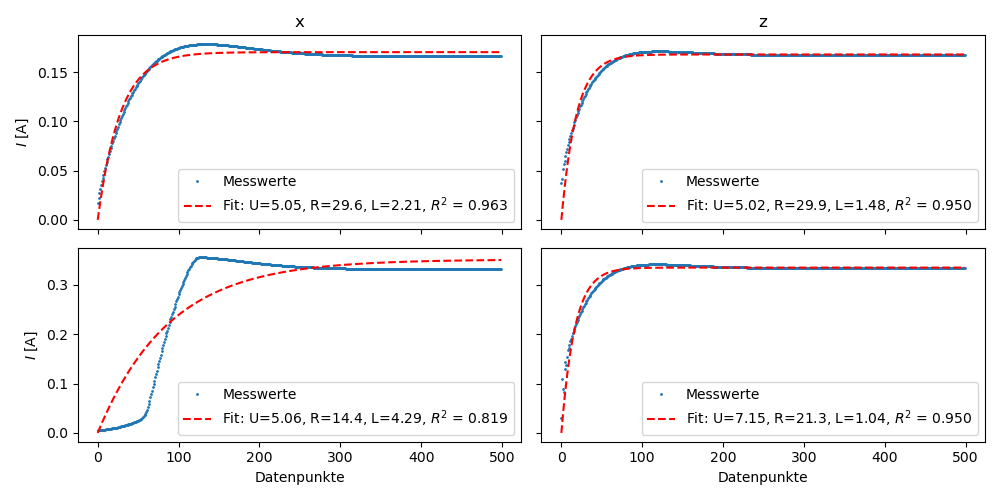
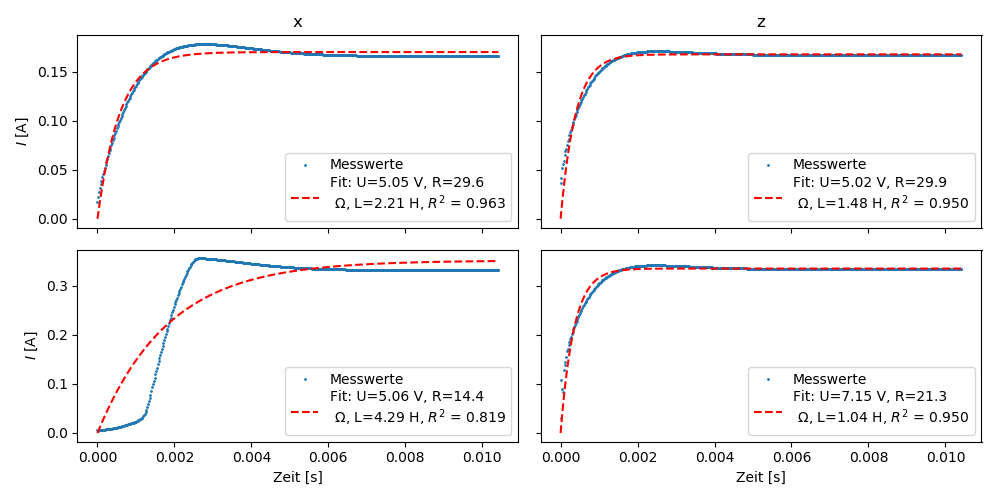
files

diff --git a/ba.tex b/ba.tex
@@ -1,4 +1,4 @@
-% Created 2019-10-16 Mi 23:53
+% Created 2019-10-17 Do 16:38
 % Intended LaTeX compiler: pdflatex
 \documentclass[page,pdftex,12pt,a4paper,twoside,openright]{scrbook}
 \usepackage[utf8]{inputenc}
@@ -54,7 +54,7 @@
 
 
 \chapter{Einleitung \label{sec-einleitung}}
-\label{sec:orgb1974c0}
+\label{sec:org326283f}
 Durch den allgemeine Anstieg der Weltbevölkerung, den demographischen Wandel und die steigende Lebenserwartung wird eine Zunahme von Krankheiten wie Krebs oder Diabetes erwartet \cite{bray_global_2018,zhou_worldwide_2016}. Um dieser Entwicklung entgegen zu wirken, werden kostengünstige, patientennahe Diagnoseprozesse für die Individualmedizin entwickelt. So können bereits früh Krankheitsanzeichen und -ursachen entdeckt und bekämpft werden.
 
 Neuartigen Analysesystemen wie \emph{Lab-on-a-Chip} (LOC) werden deswegen großes Potential für Biomedizin und Medizindiagnostik in der Zukunft zugesprochen. Durch Miniaturisierung der Chips ergeben sich viele Vorteile \cite{stone_microfluidics_2001,knight_honey_2002}.
@@ -62,11 +62,11 @@ Möglich sind unter anderem Biochips zur Analyse und Detektion von bestimmten Mo
 
 Das in der Arbeitsgruppe \textsc{Ehresmann} etablierte Transportkonzept von superparamagnetischen Partikeln (SPP) oberhalb magnetisch strukturierter \emph{Exchange-Bias} (EB) Dünnschichtsysteme kann hierbei ein wichtiger Bestandteil zukünftiger Analysesysteme werden. Die Grundidee ist es durch ein extern angelegtes Magnetfeld die magnetische Feldlandschaft (MFL) eines künstlichen Domänenmusters so zu transformieren, dass ein gerichteter Transport der SPP zwischen \emph{head-to-head} und \emph{tail-to-tail}-Domänenwänden möglich wird; dabei können diese SPP in verschiedenen Prozessschritten eines LOCs verwendet werden. Einerseits können Analyte, die an Partikel gebunden sind, in bestimmte Analysebereiche transportiert werden \cite{ehresmann_asymmetric_2011}, andererseits können aber auch Strömungsfelder durch den Partikeltransport erzeugt werden, welche die Analyten und Reagenzien durchmischen und so höhere biochemische Reaktionsraten bewirken \cite{holzinger_controlled_2012}. Ein weiteres Anwendungsgebiet ist die magnetophoretische Auftrennung der Partikel, um so verschiedene Partikelgrößen aufgrund unterschiedlicher magnetophoretischer Mobilitäten voneinander trennen zu können, damit zum Beispiel möglichst homogene Partikeldispersionen für Analysen erreicht werden können \cite{zhou_magnetic_2016}. Für jede dieser Anwendungen werden verschiedene Formen eines externen Magnetfeldes benötigt. Bisher wurden für den Partikeltransport trapezförmige Magnetfeldsequenzen mit konstanten Änderungsraten verwendet. In dieser Arbeit soll der Einfluss der Änderungsrate auf die Transportgeschwindigkeit und Trajektorie der Partikel genauer betrachtet werden, um Optimierungen bezüglich des Partikeltransports für das jeweilige Anwendungsgebiet möglich zu machen.
 \chapter{Theoretische Grundlagen \label{sec-grundlagen}}
-\label{sec:orgd395730}
+\label{sec:org69a6ff2}
 In diesem Kapitel soll das theoretische Hintergrundwissen, welches zum Verständnis dieser Arbeit benötigt wird, vermittelt werden. Dazu wird zunächst der Elektromagnetismus eingeführt. Anschließend wird die Verbindung zum Magnetismus in Materie hergestellt. Dann werden die in dieser Arbeit verwendeten \emph{Exchange Bias Systeme} eingeführt und im nächsten Teil wird schließlich der Transport von superparamagnetischen Partikeln über eben jene \emph{Exchange Bias Systeme} beschrieben, wobei die auf sie wirkenden Kräfte genauer betrachtet werden sollen.
 
 \section{Elektromagnetismus \label{sec-elektromagnetismus}}
-\label{sec:orge2da8a8}
+\label{sec:org0fbe1c4}
 Allgemein gilt, dass bewegte Ladungsträger (Ströme) ein Magnetfeld erzeugen. Fließt zum Beispiel ein Strom \(I\) durch einen langen geraden Draht, erzeugt dies ein kreisförmiges Magnetfeld. Entlang der Stromrichtung ergibt sich eine Rechtsschraube für das Magnetfeld B. Eine Spule besteht aus mehreren Windungen stromdurchflossenen Drahtes und erzeugt so durch Überlagerung ein Magnetfeld ähnlich eines Stabmagneten mit Nord- und Südpol. Die Magnetische Flussdichte \(B\) im Vakuum hängt dabei von Stromstärke \(I\) und Windungsdichte \(n = \frac{N}{L}\) (Windungen pro Länge) ab. Hierbei ist \(\mu_\mathrm{0}\) die magnetische Feldkonstante \cite{demtroder_experimentalphysik_2017}:
 
 \begin{equation}
@@ -75,7 +75,7 @@ B = \mu_{\mathrm{0}} \cdot n \cdot I .
 \end{equation}
 
 \subsection{Helmholtzspulen}
-\label{sec:org692542b}
+\label{sec:org491a9d4}
 Für den Partikeltransport wird ein äußeres magnetisches Feld mit Hilfe von Helmholtzspulen erzeugt. Eine Helmholtzspule besteht aus zwei parallelen Ringspulen in Reihe. Diese erzeugen ein homogenes Magnetfeld in ihrem Inneren, wenn die Helmholtz-Bedingung erfüllt ist, d.h. Radius und Abstand der Teilspulen gleich sind. Die Flussdichte dieses Magnetfeldes hängt in Näherung von der Stromstärke \(I\), der Windungszahl pro Spule \(N\) und dem Radius einer einzelnen Spule \(r\) ab \cite{raith_elektromagnetismus_2006}: 
 
 \begin{equation}
@@ -84,7 +84,7 @@ B = \left(\frac{4}{5}\right)^{\frac{3}{2}} \cdot \mu_{\mathrm{0}} \cdot \frac{N 
 \end{equation}
 
 \section{Spulen als elektrische Bauteile \label{sec-spulen}}
-\label{sec:org132259a}
+\label{sec:org37e5c9c}
 Beim Anlegen einer Spannung an eine Spule, wird innerhalb dieser eine Gegenspannung induziert. Hierbei ist die induzierte Spannung
 
 \begin{equation}
@@ -137,7 +137,7 @@ Der Abschaltvorgang ist in Abbildung \ref{fig-abschalten} abgebildet.
 \end{figure}
 
 \section{Magnetismus in Materie \label{sec-magnetismus}}
-\label{sec:orga5deda9}
+\label{sec:org04f3833}
 Wie bereits in Kapitel \ref{sec-elektromagnetismus} erläutert, erzeugen bewegte Ladungen Magnetfelder. Eine solche bewegte Ladung ist auch das Elektron, das in einer vereinfachten Vorstellung um den Atomkern kreist. Folglich besitzen Atome ein magnetisches Moment \(\mu\), welches abhängig ist von der umkreisten Fläche \(A\) und dem Kreisstrom des Elektrons \(I\) \cite{kassing_bergmann_2005}:
 
 \begin{equation}
@@ -178,7 +178,7 @@ Festkörper können in Folge der mikroskopischen Ursachen bezüglich ihres Magne
 Im Folgenden soll näher auf diese Klassifizierungen eingegangen werden.
 
 \subsection{Dia- und Paramagnetismus \label{sec-dia-und-para}}
-\label{sec:orgd01df1a}
+\label{sec:org37450b9}
 Diamagnetismus ist ein magnetischer Effekt in jeglicher Materie, welcher durch induzierte magnetische Momente auftritt. In einem externen Magnetfeld wird im Atom ein magnetisches Moment induziert, welches dem induzierenden Magnetfeld entgegen wirkt (Lenzsche Regel). Ein Festkörper wird als diamagnetisch bezeichnet, wenn ohne äußeres magnetisches Feld keine magnetischen Momente vorliegen. Vor allem abgeschlossene äußere Elektronenschalen tragen zum diamagnetischen Effekt eines Atoms bei. Die Spin- und Bahnmomente der gepaarten Elektronen heben sich in Summe auf. Diamagnetische Materialien haben eine negative Suszeptibilität und werden aus dem externen Magnetfeld heraus gedrängt \cite{gross_festkorperphysik_2012}.
 
 \begin{equation}
@@ -201,7 +201,7 @@ Legt man ein äußeres Magnetfeld an, richten sich die magnetischen Momente nach
 \end{equation}
 
 \subsection{Ferromagnetismus \label{sec-ferro}}
-\label{sec:orgd1e2a2b}
+\label{sec:orga44ead7}
 Beeinflussen sich die einzelnen magnetischen Momente gegenseitig, sind sie also gekoppelt, kann das System einen magnetisch geordneten Zustand einnehmen. Dieser geordnete Zustand unterliegt jedoch einer Temperaturabhängigkeit. Eine Ursache für das Vorliegen von kollektivem Magnetismus ist die quantenmechanische \textbf{Austausch-Wechselwirkung} \cite{kassing_bergmann_2005}.
 
 Die Suszeptibilität ferromagnetischer Materialien ist um bis zu mehrere Größenordnungen größer als bei paramagnetischen Materialien \cite{demtroder_experimentalphysik_2017}.
@@ -242,16 +242,16 @@ Beim Ausrichten der magnetischen Dipole in einem ferromagnetischen Stoff wird En
 Der Festkörper kann seine ferromagnetischen Eigenschaften verlieren, wenn er über eine bestimmte, für das Material charakteristische, Temperatur \(T_\mathrm{C}\), die \textbf{Curie-Temperatur} erhitzt wird. Die Wärmebewegung zerstört dann die magnetische Ausrichtung der Dipole und der Stoff zeigt nur noch paramagnetisches Verhalten \cite{demtroder_experimentalphysik_2017}.
 
 \subsection{Antiferromagnetismus \label{sec-antiferro}}
-\label{sec:org21e6fe4}
+\label{sec:org42d6181}
 In einem Antiferromagneten liegen zwei ineinander gestellte Untergitter im Kristallgitter vor. Die magnetischen Momente jener Untergitter zeigen jeweils in entgegengesetzte Richtungen und haben den gleichen Betrag. Somit heben sie sich insgesamt auf und es ist keine makroskopische Magnetisierung sichtbar. Oberhalb der \textbf{Néel-Temperatur} \(T_\mathrm{N}\), dem Analogon zur Curie-Temperatur, geht der Festkörper in den paramagnetischen Zustand über \cite{demtroder_experimentalphysik_2017}. 
 
 \subsection{Superparamagnetismus}
-\label{sec:orgc89dc0b}
+\label{sec:orgbe79c37}
 Ist das Volumen eines ferromagnetischen Festkörpers so gering, dass er nur aus einer einzelnen Domäne besteht, spricht man von Superparamagnetismus. Die Suszeptibilität solcher Superparamagneten ist größer als die Suszeptibilität von Paramagneten, jedoch verhalten sie sich ohne äußeres Magnetfeld ähnlich, da die Magnetisierung in solchen einzelnen Domänen nicht thermisch stabil ist und sich beliebig ausrichten kann \cite{gross_festkorperphysik_2012}.
 Jedoch ist die Zeitskala des Experiments, und ob in dieser thermische Aktivierungs- und Relaxationsprozesse statt finden können, wichtig, um Aussagen über das magnetische Verhalten eines Partikels machen zu können. Bei ausreichend großen Zeitskalen wird über die durch thermische Energie unterschiedlichen magnetischen Momente gemittelt und man erhält insgesamt keine Magnetisierung. Wird jedoch sehr kurz gemessen, kann eine Richtung der Magnetisierung für diesen kurzen Zeitausschnitt bestimmt werden \cite{leslie-pelecky_magnetic_1996}.
 
 \section{Exchange Bias Effekt \label{sec-EB}}
-\label{sec:org35751a7}
+\label{sec:orgbea0aad}
 Der \emph{Exchange Bias} (EB) Effekt  wurde 1956 von \textsc{Meiklejohn} und \textsc{Bean} an oxidierten \ce{Co}-Partikeln entdeckt. Diese Partikel bestehen im Kern aus Cobalt, einem Ferromagneten, und besitzen eine äußere dünne \ce{CoO}-Schicht, welche antiferromagnetisch ist. Die Autoren entdeckten eine Verschiebung der Hysteresekurve um das sogenannte Austauschverschiebungsfeld \(H_\mathrm{EB}\). Diese Beobachtung kann durch den Austauschverschiebungseffekt (engl. \emph{exchange bias}) erklärt werden. Dieser tritt an der Grenzfläche zwischen antiferromagnetischer (AF) und ferromagnetischer (F) Schicht auf, wenn die Partikel innerhalb eines externen Magnetfeldes unter die Néel-Temperatur der antiferromagnetischen Schicht gekühlt wurden. \cite{meiklejohn_new_1957}.
 
 
@@ -285,7 +285,7 @@ Schematische Darstellung der ferromagnetischen Hysteresekurve eines EB-Systems i
 Durch Helium-Ionenbeschuss kann der EB-Effekt eines Schichtsystems verändert werden. So kann zum Beispiel die Richtung des Austauschverschiebungsfeldes lokal umgekehrt werden \cite{mougin_local_2001}. Hierzu kann eine Schattenmaske mittels Lithographie auf die Probe gebracht werden, um anschließend lokal das Eindringen von Ionen zu verhindern. Dies ermöglicht die magnetische Strukturierung von EB-Systemen, zum Beispiel in einer \emph{in-plane} Anisotropie, welche zu \emph{head-to-head} und \emph{tail-to-tail}-Domänenwänden in einer Streifenstruktur führt, womit wiederum Transport von superparamagnetischen Partikeln realisiert werden kann \cite{holzinger_directed_2015}.
 
 \section{Partikeltransport \label{sec-partikeltransport}}
-\label{sec:org06e8be0}
+\label{sec:orgb262063}
 Superparamagnetische Partikel (SPP) lassen sich durch Verwendung von den zuvor beschriebenen streifenstrukturierten (hh und tt) EB-Systemen in kontrollierten Abständen zum Substrat und in geordneter Reihenform transportieren. Dabei setzt sich das effektive Magnetfeld, das die Partikel erfahren, aus der Magnetfeldlandschaft des Exchange-Bias Systems und dem externen Magnetfeld zusammen \cite{holzinger_directed_2015}:
 
 \begin{equation}
@@ -342,10 +342,10 @@ Schematische Darstellung der wirkenden Kräfte auf ein superparamagnetisches Par
 \end{figure}
 
 \chapter{Experimentelle Methoden \label{sec-methoden}}
-\label{sec:orgeb52697}
+\label{sec:org9ce12d2}
 
 \section{Experimenteller Aufbau \label{sec-aufbau}}
-\label{sec:orgc2fd243}
+\label{sec:orgace6f0a}
 
 Um den Transport von superparamagnetischen Partikeln über das Substrat zu realisieren und zu beobachten, wurde der Versuchsaufbau, der in Abbildung \ref{img-aufbau} zu sehen ist, verwendet.
 
@@ -375,7 +375,7 @@ z & \num{330} & \num{0,030} & \num{11,5} & \num{70} & \num{5,6}\\
 Bei den Versuchen in dieser Arbeit wurden nur zwei der drei Helmholtzspulen verwendet. Dabei handelte es sich um die Spulen für die x- und z-Richtung. Die Partikel wurden in einer mikrofluidischen Zelle auf den Proben platziert, um dann untersucht werden zu können. Hierfür wird Parafilm zuerst in Größe der Probe zurecht geschnitten, und dann ein Rechteck im Inneren des Parafilms ausgeschnitten. So entsteht eine Aussparung in der Mitte, in die circa \SI{10}{\micro\litre} Partikelsuspension gegeben werden. Anschließend wird die Probe auf dem Probentisch platziert, die LED eingeschaltet, und die Kamera mittels Livebild auf die Partikel fokussiert.
 
 \section{Programm zur Erstellung von Magnetfeldsequenzen \label{sec-py}}
-\label{sec:org2468b79}
+\label{sec:org11eed2b}
 Um die in dieser Arbeit benötigten externen Magnetfelder zu erzeugen, wurde ein neues Programm in Python entwickelt, mit dessen Hilfe verschiedene Wellenformen als Magnetfeld ausgegeben werden können. Hierbei stand ein modularer Ansatz im Vordergrund, weshalb durch einfache Änderungen am Programmcode andere Geräte im Aufbau verwendet werden können. So kann zum Beispiel ein anderes Netzteil verwendet werden, um dann auch drei Helmholtzspulen für Magnetfelder in drei Dimensionen anzusteuern. Ziel war es sowohl sinus- und rechteckförmige Magnetfelder, als auch die für diese Arbeit benötigten trapezförmigen Magnetfelder erzeugen zu können. Dabei ist es möglich jeden Parameter der Wellenform zu ändern, und die Magnetfeldsequenzen als Plot dargestellt zu sehen. Abbildung \ref{fig-prog} zeigt einen Screenshot der graphischen Benutzeroberfläche des Programms.
 
 Mit der in dieser Arbeit entwickelten ersten Version des Programms ist es bisher nur möglich, die Spannungsausgabe des DAQ-Gerätes an das jeweilige verwendete Netzteil zu steuern und anzuzeigen. In Zukunft soll es jedoch möglich sein bereits das entstehende Magnetfeld im Programm auszuwählen und angezeigt zu bekommen. Hierzu wurden zunächst die verwendeten Spulen und das Netzteil charakterisiert (siehe Kapitel \ref{sec-stromundmagnet}).
@@ -388,7 +388,7 @@ Screenshot des entwickelen Programms zur Erstellung von beliebigen Magnetfeldseq
 \end{figure}
 
 \section{Zeitabhängige Messung von Strom und magnetischer Flussdichte \label{sec-stromundmagnet}}
-\label{sec:org07c8ec4}
+\label{sec:org3026f64}
 Um das Verhalten der im Experiment verwendeten Helmholtzspulen nachvollziehen zu können und um die gegebenen technischen Daten und Modelle zu Überprüfen, wurden Messungen des Magnetfeldes und des Stromes an eben jenen Spulen durchgeführt.
 
 Hierfür wurde einerseits der zeitliche Verlauf der Stromstärke in der Spule gemessen, um Induktivität und ohmschen Widerstand zu überprüfen. Es wurde ein Keramikwiderstand in Reihe mit der zu messenden Helmholtzspule angebracht. Über diesem Messwiderstand \(R\) wurde nun die Spannung \(U\) gemessen, indem eine NI USB-6002 Box (im folgenden \emph{DAQ} für \emph{Data Acquisition}) parallel dazu angeschlossen wurde. Dieses DAQ-Gerät besitzt eine maximale Samplerate von \SI{50000}{\per\s} und eine Bittiefe von 16-bit am \emph{Analog Input} (AI). Damit ist dieses Gerät hinreichend geeignet für Erfassung der Messdaten. Mithilfe des Ohmschen Gesetzes lässt sich so der Strom \(I\), der durch den bekannten Messwiderstand \(R\) fließt, berechnen. Da Spule und Messwiderstand in Reihe geschaltet sind, fließt durch beide die selbe Stromstärke.
@@ -405,7 +405,7 @@ Um den zeitlichen Verlauf der magnetischen Flussdichte zu messen, wurde der Mess
 Die Aufzeichnung der Daten des DAQ-Gerätes erfolgte für beide Messungen mittels eines selbst geschriebenen Python-Scriptes (siehe Anhang \ref{anh-messung}).
 
 \chapter{Ergebnisse und Diskussion \label{sec-ergebnisse}}
-\label{sec:org970e116}
+\label{sec:orge8bb697}
 Allgemein kann die Auswertung in zwei Teile unterteilt werden.
 Zu Beginn der Auswertung wird in Kapitel \ref{sec-b_helmholtz} auf Messungen von Stromstärke und magnetischer Flussdichte an den im Experiment verwendeten Helmholtzspulen eingegangen. Diese Messungen werden zum einen benötigt um das Programm zur Erstellung von Magnetfeldsequenzen zukünftig sinnvoll weiter entwickeln zu können. Weiterhin ist die Kentniss über den realen zeitlichen Verlauf der angelegten Magnetfeldsequenzen wichtig, um die Simulationen und Vorhersagen aus dem theoretischen Modell zum Partikeltransport einordnen, diskutieren und möglicherweise optimieren zu können. Es wurden sowohl statische Messungen der Amplitude der magnetischen Flussdichte als auch der zeitliche Verlauf der magnetischen Flussdichte in Abhängigkeit der Stromstärke durchgeführt.
 
@@ -419,8 +419,8 @@ Zusammensetzung der verwendeten Schichtsysteme. Die obere Siliziumschicht wurde 
 \end{figure}
 
 \section{Stromstärke und magnetische Flussdichte der Helmholtzspulen \label{sec-b_helmholtz}}
-\label{sec:org6fa1156}
-Um die verwendeten Helmholtzspulen näher charakterisieren zu können, wurde zunächst der Zusammenhang zwischen der am Netzteil angelegten Spannung und der die Spulen durchfließenden Stromstärke sowie der daraus resultierenden Flussdichte bestimmt.
+\label{sec:orgef07a07}
+Um die verwendeten Helmholtzspulen näher charakterisieren zu können, wurde zunächst der Zusammenhang zwischen der am Netzteil angelegten Spannung und der die Spulen durchfließenden Stromstärke sowie der daraus resultierenden magnetischen Flussdichte bestimmt.
 
 Zuerst wurde der Zusammenhang zwischen den Amplituden der Stromstärke \(I\) und magnetischen Flussdichte \(B\) gemessen. Dabei wurde die Stromstärke an einem in Reihe geschalteten Multimeter abgelesen, die magnetischen Flussdichte an einem Teslameter der Firma \emph{Projekt Elektronik GmbH}, dessen Messkopf sich in der Probenhalterung der Helmholtzspulen zur Messung des Magnetfeldes in z-Richtung befand. Die Messwerte sind in Tabelle \ref{tab-B} im Anhang dargestellt. Der Zusammenhang von Stromstärke und magnetischer Flussdichte sollte gemäß Gleichung \ref{eq-spule} linear sein, weshalb die Messwerte in Abbildung \ref{fig-magnetfeldstrom} durch eine lineare Regression angenähert wurden.
 
@@ -455,9 +455,9 @@ m_\mathrm{calc} = \left(\frac{4}{5}\right)^{\frac{3}{2}} \cdot 4\pi \cdot 10^{-7
 Die Steigung aus der linearen Regression beträgt \(m_\mathrm{reg} = \SI{10.34}{\milli\tesla\per\ampere}\), die berechnete Steigung \(m_\mathrm{calc} = \SI{9.89}{\milli\tesla\per\ampere}\). Dies entspricht einem relativen Fehler von $$ \frac{m_\mathrm{calc}}{m_\mathrm{reg} -m_\mathrm{calc}} = 0.045 .$$
 Anhand von Abbildung \ref{fig-b_helmholtz} und der berechneten Abweichung zwischen dem rechnerisch ermittelten und dem Proportionalitätsfaktor \(m\) aus der Regression der Messwerte wird deutlich, dass die Näherung für höhere Stromstärken nicht hinreichend genügt. Jedoch liegen die standardmäßig im Partikeltransportexperiment benötigten magnetischen Flussdichten im Bereich von unter \SI{8}{\milli\tesla}, weswegen die Näherung in Zukunft im Partikeltransport Programm verwendet werden könnte, um die Amplitude der entstehenden magnetischen Flussdichte bereits im Voraus zu berechnen.
 
-Um das in Kapitel \ref{sec-spulen} beschriebene Anschaltverhalten von Spulen für die im Experiment verwendeten Spulen zu charakterisieren, wurde der zeitliche Verlauf der Stromstärke unter Verwendung des Aufbau aus Kapitel \ref{sec-stromundmagnet} bestimmt.
+Um das in Kapitel \ref{sec-spulen} beschriebene Anschaltverhalten von Spulen für die im Experiment verwendeten Spulen zu charakterisieren, wurde der zeitliche Verlauf der Stromstärke unter Verwendung des Aufbaus aus Kapitel \ref{sec-stromundmagnet} bestimmt.
 
-Dazu wurden mit dem Programm aus Kapitel \ref{sec-py} jeweils 10 Sekunden lang eine Rechteckspannung mit zwei verschiedene Amplituden angelegt. Da gegenwärtig für das Experiment meist nur zwei der drei Helmholtzspulen gleichzeitig verwendet werden, wurden die Spulen für die Magnetfeldgeneration entlang der x- und z-Richtung verwendet, die der Einfachheit halber im Folgenden auch als x- und z-Spule bezeichnet werden. Dies wird exemplarisch für eine Amplitude in Abbildung \ref{fig-stromraw} gezeigt.
+Dazu wurden mit dem Programm aus Kapitel \ref{sec-py} jeweils 10 Sekunden lang eine Rechteckspannung bei einer Frequenz von \SI{1}{\hertz} mit zwei verschiedene Amplituden (\SI{0.4}{\volt} und \SI{0.2}{\volt}) angelegt. Da gegenwärtig für das Experiment meist nur zwei der drei Helmholtzspulen gleichzeitig verwendet werden, wurden die Spulen für die Magnetfeldgeneration entlang der x- und z-Richtung verwendet, die der Einfachheit halber im Folgenden auch als x- und z-Spule bezeichnet werden. Dies wird exemplarisch für eine Amplitude in Abbildung \ref{fig-stromraw} gezeigt.
 
 \begin{figure}[H]
 \centering
@@ -466,7 +466,7 @@ Dazu wurden mit dem Programm aus Kapitel \ref{sec-py} jeweils 10 Sekunden lang e
 Zeitlicher Verlauf der Stromstärke in den Spulen für x- (oben) und z-Richtung (unten).}
 \end{figure}
 
-Um eine Aussage über die Änderungsrate (Steigung) der Stromstärke und somit in direkter Konsequenz auch des Magnetfeldes machen zu können, ist es vorteilhaft das Verhalten für eine einzelne Periode zu betrachten. Dazu wurde der über alle zehn Perioden gemittelt. Diese gemittelten Messwerte sind zu sehen in Abbildung \ref{fig-stromavg}.
+Um eine Aussage über die Änderungsrate (Steigung) der Stromstärke und somit in direkter Konsequenz auch des Magnetfeldes machen zu können, ist es vorteilhaft das Verhalten für eine einzelne Periode zu betrachten. Dazu wurde über alle zehn Perioden der Messung gemittelt. Diese gemittelten Messwerte sind zu sehen in Abbildung \ref{fig-stromavg}.
 
 \begin{figure}[H]
 \centering
@@ -475,11 +475,11 @@ Um eine Aussage über die Änderungsrate (Steigung) der Stromstärke und somit i
 Über alle zehn Perioden gemittelter zeitlicher Verlauf der Stromstärke für x- und z-Richtung. Oben sind die Stromstärken der x-Spule dargestellt, unten die der z-Spule.}
 \end{figure}
 
-Vor allem für die Strommessungen der x-Spule sieht man klar eine Spitze zu Beginn der Plateaus. Dies ist wahrscheinlich auf das spannungsgesteuerte Netzteil zurückzuführen, welches einen konstanten Strom erzeugen soll. Jedoch ist durch die Impedanz der Spule bei abrupten Änderungen des Stromes ein hoher Blindwiderstand vorhanden, welcher durch das Netzteil versucht wird zu kompensieren. Da der Blindwiderstand dann wieder sinkt "`übersteuert"' das Netzteil und erreicht eine höhere Stromstärke als eigentlich angestrebt. Da sich die Stromstärke im Plateau zunächst nicht mehr ändert, passt das Netzteil den Ausgangsstrom an, und erreicht die gewünschte Amplitude.
+Vor allem für die Strommessungen der x-Spule ist klar eine Spitze zu Beginn der Plateaus sichtbar. Dies ist wahrscheinlich auf das spannungsgesteuerte Netzteil zurückzuführen, welches einen konstanten Strom erzeugen soll. Jedoch ist durch die Impedanz der Spule bei abrupten Änderungen des Stromes ein hoher Blindwiderstand vorhanden, welchem das Netzteil im Stromregelungsbetrieb durch Ausgabe höherer Spannungen entgegen zu wirken versucht. Da der Blindwiderstand dann wieder sinkt "`übersteuert"' das Netzteil und es wird eine Stromstärke erreicht als angestrebt. Da sich die Stromstärke im Plateau zunächst nicht mehr ändert, passt das Netzteil den Ausgangsstrom an, und erreicht die gewünschte Amplitude.
 
-Da vor allem das Einschaltverhalten der Spulen von Interesse ist, wurde der Beginn der Perioden, in dem die Stromstärke auf das Maximum ansteigt, genauer betrachtet.
+Da vor allem das beschriebene Einschaltverhalten der Spulen von Interesse ist, wurde der Beginn der gemittelten Periode, in dem die Stromstärke auf das Maximum ansteigt, genauer betrachtet.
 
-Anschließend wurde versucht Gleichung \ref{eq-strom-spule} an die Kurve zu fitten. Die Messwerte, Fitkurven und -parameter sind in Abbildung \ref{fig-stromfit} dargestellt. Die untere linke Kurve hat eine andere Form als die restlichen Kurven. Dies ist auf ein starkes Rauschen während des ersten Einschaltens zurückzuführen.
+Anschließend wurden die Messwerte durch eine Fitfunktion basierend auf Gleichung \ref{eq-strom-spule} angenähert. Die Messwerte, Fitkurven und -parameter sind in Abbildung \ref{fig-stromfit} dargestellt. Die Messung der x-Spule mit der größeren Amplitude hat eine andere Form als die restlichen Kurven. Dies ist auf ein starkes Rauschen während des ersten Einschaltens zurückzuführen.
 
 \begin{figure}[h]
 \centering
@@ -488,7 +488,7 @@ Anschließend wurde versucht Gleichung \ref{eq-strom-spule} an die Kurve zu fitt
 Einschaltzeitpunkt der gemittelten Periode der Stromstärke. \mbox{Fitfunktion (rot) und -parameter} zu Gleichung \ref{eq-strom-spule} an die gemessenen Stromstärken (blau).}
 \end{figure}
 
-In den Graphen ist deutlich zu erkennen, dass keine ausreichend genauen Parameter für die Fitfunktion gefunden werden konnten. Vor allem zu Beginn der Messung scheint das reale Einschaltverhalten vom erwarteten Einschaltverhalten abzuweichen. Gleichung \ref{eq-strom-spule} setzt einen konstanten Widerstand \(R\) voraus. Jedoch ist durch die hohe Änderungsrate des Stromes ein komplexer induktiver Blindwiderstand vorhanden. Hinzu kommt das bereits vorher genannte "`Übersteuern"' des Netzteiles, wenn gegen eben jenen Blindwiderstand anstrebt wird die Stromstärke konstant zu halten. Durch diese beiden Effekte sind Widerstand und Spannung während des Einschaltvorganges nicht konstant, und es müssten komplexere Modelle hinzugezogen werden, um den genauen Verlauf der Stromstärke vorhersagen zu können. Des Weiteren ist unbekannt wie das Netzteil aufgebaut ist, welche elektrischen Bauteile darin verwendet werden, und so eventuell zu der Induktivität des Aufbaus beitragen. Das Netzteil allein gibt bereits ohne zusätzliche Spulen keine sofortige maximale Spannung aus. Dies wurde überprüft, indem das Netzteil nur an einen \(\SI{12.5}{\ohm}\) Widerstand angeschlossen wurde und die darüber abfallende Spannung ohne Helmholtzspule gemessen wurde. Der Einschaltvorgang dieser Messung ist dargestellt in Abbildung \ref{fig-12ohm}. Wegen des ohmschen Gesetzes ist die Stromstärke proportional zur gemessenen Spannung und zeigt die selbe Form. Außerdem wird deutlich, dass die Auflösung des DAQ-Gerätes anscheinend zu gering ist, um die schnellen Änderungen während des Einschaltens genau darstellen zu können.
+In den Graphen ist zu erkennen, dass der Kurvenverlauf der Stromstärke beim Einschalten prinzipiell dem theoretisch vorhergesagten Einschaltverhalten aus Gleichung \ref{eq-strom-spule} entspricht. Dennoch sind keine ausreichend genauen Parameter für die Fitfunktion gefunden worden. Vor allem zu Beginn der Messung weicht das reale Einschaltverhalten vom erwarteten Einschaltverhalten ab, da das Netzteil aufgrund der Stromregelung keine konstante Spannung ab Zeitpunkt des Einschaltens ausgibt, sondern diese regelt, um einen konstanten Strom zu erzielen. Hinzu kommt, dass Gleichung \ref{eq-strom-spule} nur einen konstanten ohmschen Widerstand voraus setzt. Jedoch werden durch die hohe Änderungsrate des Stromes große Gegenströme induziert, welche als Blindwiderstand wirken. Deswegen kann Gleichung \ref{eq-strom-spule} nur näherungsweise hinzugezogen werden, und es ist nicht möglich die reellen Vorgänge damit zu beschreiben. Durch diese beiden Effekte müssten komplexere Modelle hinzugezogen werden, um den genauen Verlauf der Stromstärke vorhersagen zu können. Des Weiteren ist unbekannt wie das Netzteil aufgebaut ist, welche elektrischen Bauteile darin verwendet werden, und so eventuell zu der Induktivität des Aufbaus beitragen. Das Netzteil allein gibt bereits ohne zusätzliche Spulen keine sofortige maximale Spannung aus. Dies wurde überprüft, indem das Netzteil nur an einen \(\SI{12.5}{\ohm}\) Widerstand angeschlossen wurde und die darüber abfallende Spannung ohne Helmholtzspule gemessen wurde. Der Einschaltvorgang dieser Messung ist dargestellt in Abbildung \ref{fig-12ohm}. Wegen des ohmschen Gesetzes ist die Stromstärke proportional zum am Widerstand gemessenen Spannungsabfall und zeigt die selbe Form. Außerdem wird deutlich, dass die Auflösung des DAQ-Gerätes anscheinend zu gering ist, um die schnellen Änderungen während des Einschaltens genau darstellen zu können.
 
 \begin{figure}[h]
 \centering
@@ -528,7 +528,7 @@ Zeitlicher Verlauf der magnetischen Flussdichte der z-Spule der gemittelten Peri
 \end{figure}
 
 \section{Partikeltransport \label{sec-partikelgeschwindigkeiten}}
-\label{sec:org6f0c0f2}
+\label{sec:org0c6f191}
 Um aus den aufgenommen Videos aus dem Partikeltransportexperiment die Trajektorien und Partikelgeschwindigkeiten zu erhalten, wird das Programm \emph{VideoSpotTracker} verwendet. Hierzu wurden möglichst alle sich bewegenden Partikel als \emph{"`dark spot"'} mit der Größe 3 ausgewählt, und dann mittels \emph{"`follow jumps"'} die x- und z-Positionen der einzelnen Partikel in Pixel verfolgt und in einer csv-Datei aufgezeichnet (siehe Abbildung \ref{fig-videospottracker}). Da die Größe eines Pixels (\SI{278}{\nano\meter}) sowie die Framerate (1000 FPS) und somit die Zeit bekannt sind, lässt sich so die Durchschnittsgeschwindigkeit der Partikel berechnen. Bewegungen in y-Richtung sind unter anderem durch ein nicht genau orthogonal zur Streifenstruktur anliegendes Magnetfeld der x-Spule zu erklären.
 
 \begin{figure}[h]
@@ -577,14 +577,21 @@ Gemessene Partikelgeschwindigkeiten für verschiedene Startzeiten des Plateaus i
 
 Auch hier tragen alle Fehlerquellen, die für die Trajektorien bereits aufgezählt wurden zur Ungenauigkeit bei. Hinzu kommt, dass das Auswertungsskript Parameter benötigt, mit denen die Trajektorien aus den Messungen erhalten werden und anhand derer die Qualität der Fits bestimmt wird. Diese Parameter sind durch Ausprobieren gewählt wurden, und weitere Erfahrung mit dem Programm wird voraussichtlich auch ein besser geeignete Parameter liefern. Auch möglich ist es durch Optimierungsalgorithmen bezüglich der Parameter innerhalb des Skriptes die Anzahl der erfolgreich gefitteten Kurven zu erhöhen und damit die Standardabweichung vom Mittelwert zu minimieren.
 
-Es ist deutlich erkennbar, dass niedrigere Änderungsraten des externen Magnetfeldes auch niedrigere Gleichgewichtsgeschwindigkeiten bewirken. Dies kann unter anderem dadurch erklärt werden, dass der Betrag des Magnetfeldvektors in x- und z-Richtung durch die niedrigeren Steigungen kleiner wird. Die Magnetfeldlandschaft wird also effektiv weniger beeinflusst. Sichtbar ist dies in Abbildung \ref{fig-betrag}.
+Es ist deutlich erkennbar, dass niedrigere Änderungsraten des externen Magnetfeldes auch niedrigere Gleichgewichtsgeschwindigkeiten bewirken. Dies kann unter anderem dadurch erklärt werden, dass der Betrag des Magnetfeldvektors in x- und z-Richtung durch die niedrigeren Steigungen kleiner wird. Die Magnetfeldlandschaft wird also effektiv weniger beeinflusst. Sichtbar ist dies in Abbildung \ref{fig-betrag}. Der Betrag des Magnetfeldes ist bei anlegen einer rechteckigen Spannung nahezu immer maximal. Je niedriger die Änderungsrate wird, desto kürzer werden die Zeiten, in denen der Betrag des Magnetfeldes maximal ist.
+
+\begin{figure}[h]
+\centering
+\includegraphics[width=0.3\textwidth]{./img/magnitude.png}
+\caption{\label{fig-betrag}
+Betrag der Magnetfeldvektoren. Die angelegten Magnetfeldsequenzen sind in grün und orange dargestellt, der Betrag der Magnetfeldvektoren ist in grün dargestellt.}
+\end{figure}
 
 \chapter{Zusammenfassung und Ausblick \label{sec-zusammenfassung}}
-\label{sec:org8442a9d}
+\label{sec:orgf110cd4}
 \chapter{Anhang}
-\label{sec:org8761d08}
+\label{sec:org69b589e}
 \section{Messwerte}
-\label{sec:org003e293}
+\label{sec:org64bfc46}
 \begin{table}[htbp]
 \caption{\label{tab-B}
 Zusammenhang zwischen magnetischer Flussdichte und Stromstärke. Hierbei wurde die Spannung an dem DAQ-Gerät \(U_\mathrm{B}\) erhöht und dazugehörige Stromstärke am Netzteilausgang \(I\) und magnetische Flussdichte im inneren der z-Spule \(B_\mathrm{z}\) gemessen.}
@@ -615,7 +622,7 @@ U\textsubscript{DAQ}~[\si{\volt}] & I~[\si{\ampere}] & B\textsubscript{z}~[\si{\
 \end{tabular}
 \end{table}
 \section{Python-Script zur Messung von Stromstärke und magnetischer Flussdichte: \label{anh-messung}}
-\label{sec:orge4369b0}
+\label{sec:orgf4881e0}
 \begin{minted}[]{python}
 """ Measure magnetic fieldstrength with NI USB-6002 """
 import numpy as np
@@ -660,10 +667,19 @@ if __name__ == "__main__":
     plt.show()
 \end{minted}
 \section*{}
-\label{sec:org623c2ef}
+\label{sec:orgcd55667}
 \printbibliography
 
 \chapter*{Danksagung}
-\label{sec:org1a8753c}
+\label{sec:orgeb57e31}
 Danke.
+
+\chapter*{Eigenständigkeitserklärung}
+\label{sec:org919f551}
+Hiermit bestätige ich, dass ich die vorliegende Arbeit selbständig verfasst und keine anderen
+als die angegebenen Hilfsmittel benutzt habe. Die Stellen der Arbeit, die dem Wortlaut
+oder dem Sinn nach anderen Werken (dazu zählen auch Internetquellen) entnommen sind,
+wurden unter Angabe der Quelle kenntlich gemacht.\\
+\bigskip
+Ort, Datum                          Unterschrift
 \end{document}
